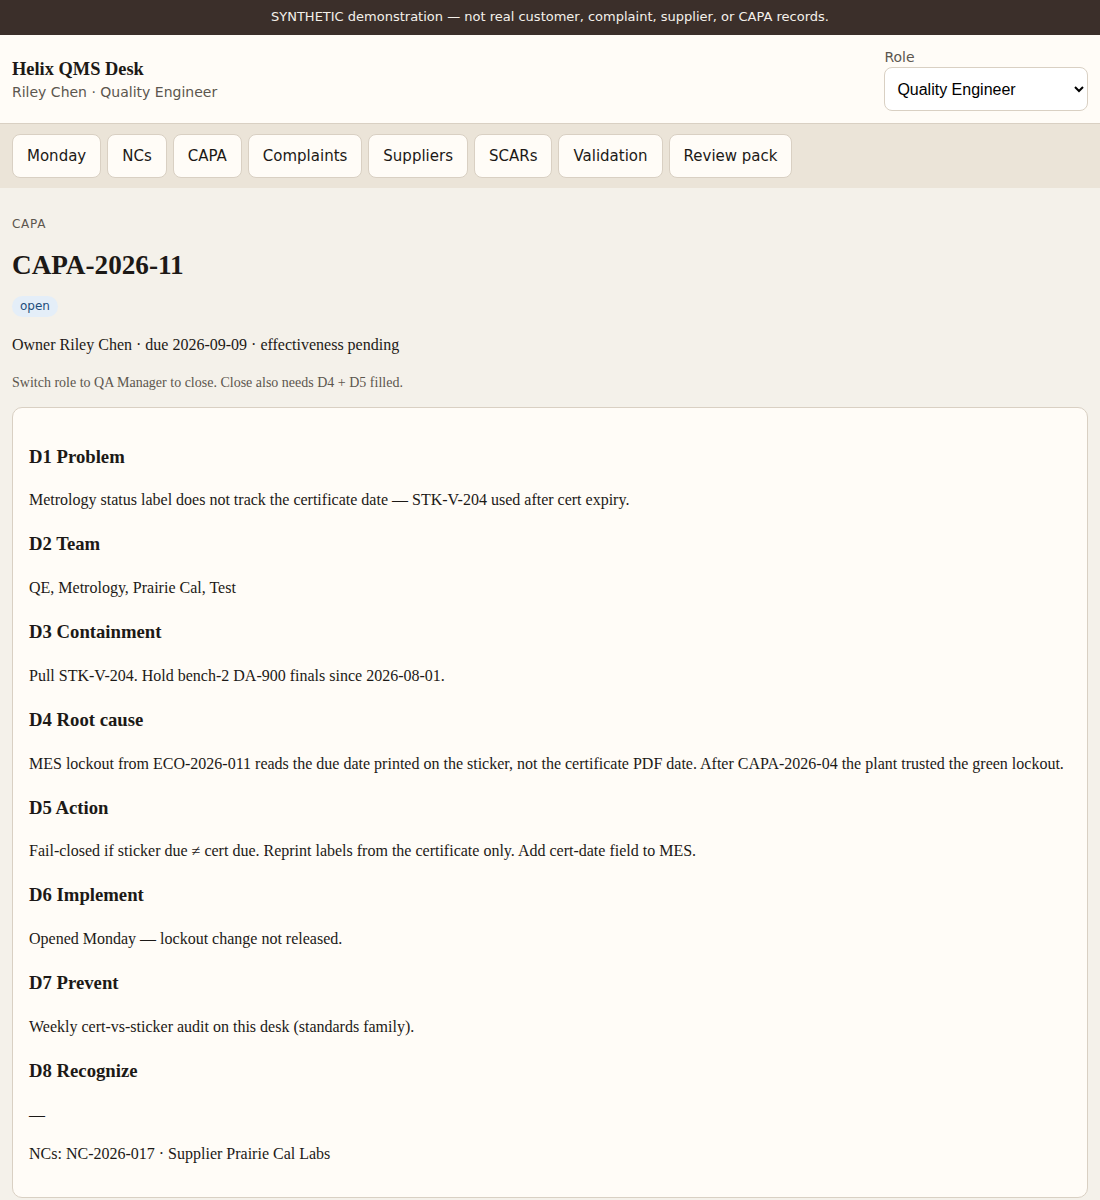
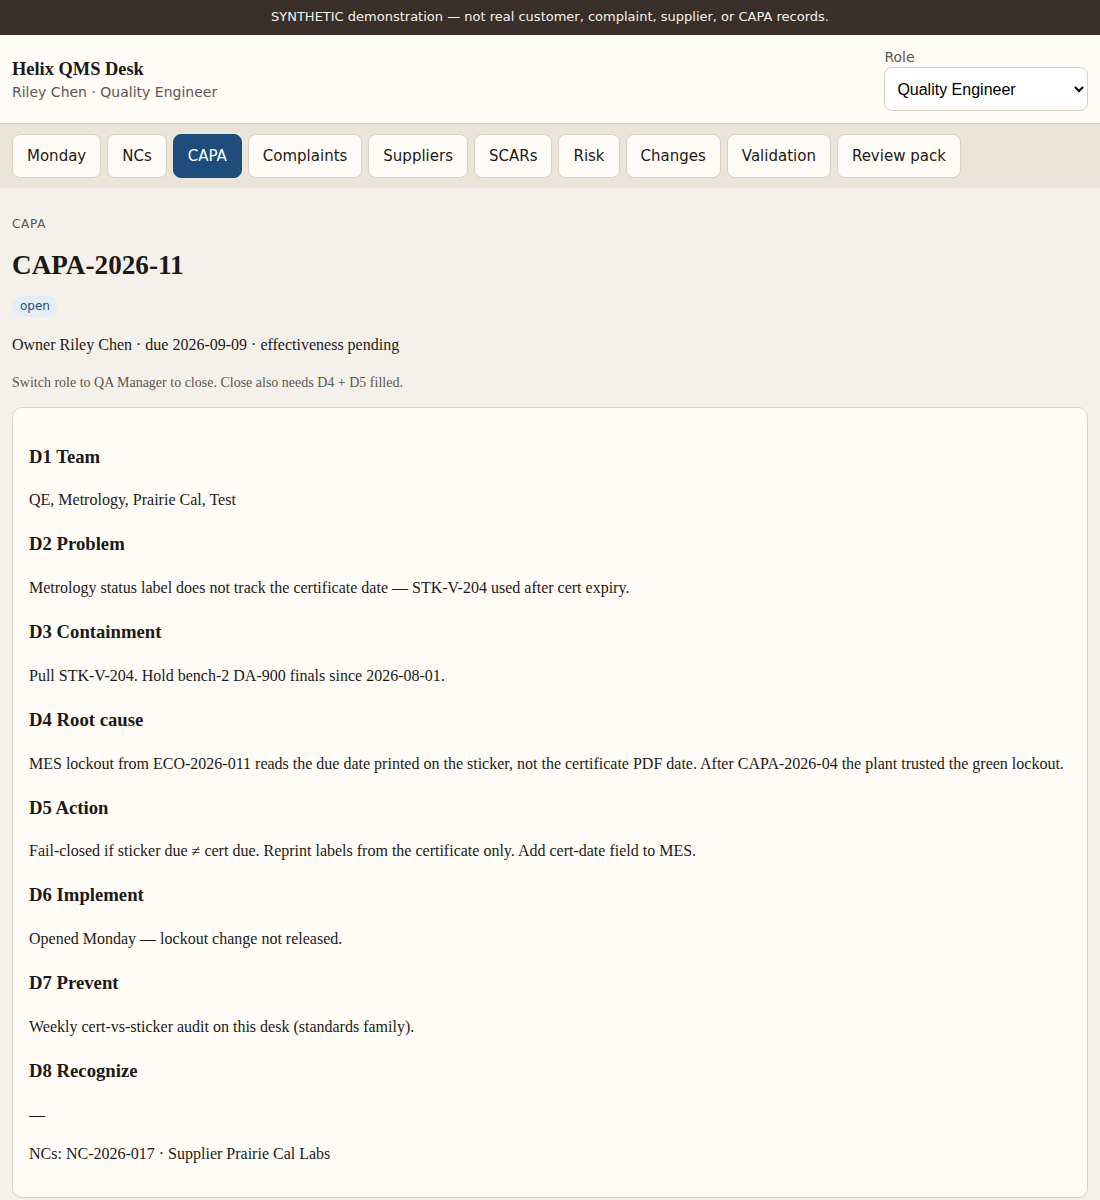
8D: D1 Team, D2 Problem (standard order)
The CAPA view labelled D1 Problem and D2 Team. Standard 8D forms the
team first (D1) and describes the problem second (D2). Display order
and labels only; the stored field names are unchanged. Retook the
CAPA-2026-11 screenshot, which also picks up the Risk and Changes tabs.

diff --git a/js/render.js b/js/render.js
@@ -206,8 +206,8 @@
     const c = g.HelixStore.state.data.capas.find((x) => x.id === id);
     if (!c) return "<p>Not found.</p>";
     const steps = [
-      ["D1 Problem", c.problem],
-      ["D2 Team", c.d2_team],
+      ["D1 Team", c.d2_team],
+      ["D2 Problem", c.problem],
       ["D3 Containment", c.d3_containment],
       ["D4 Root cause", c.d4_root_cause],
       ["D5 Action", c.d5_action],
